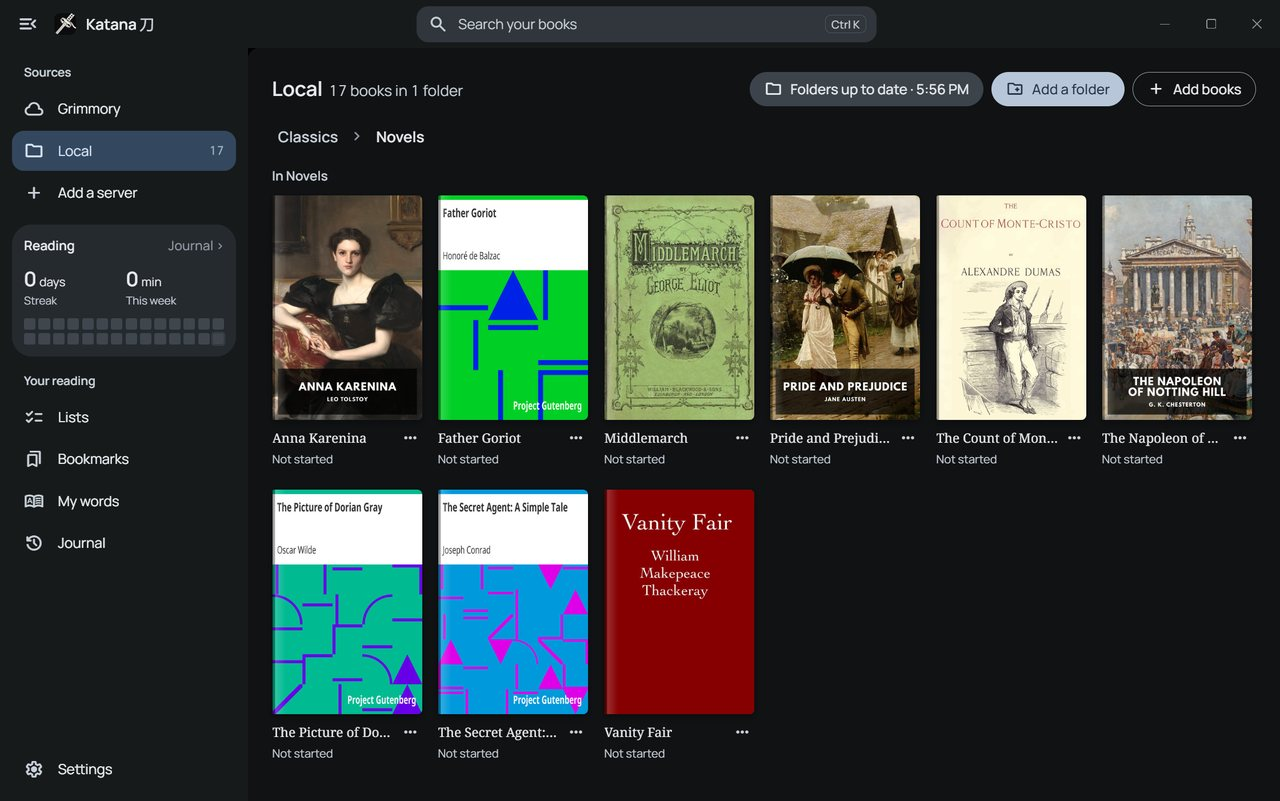
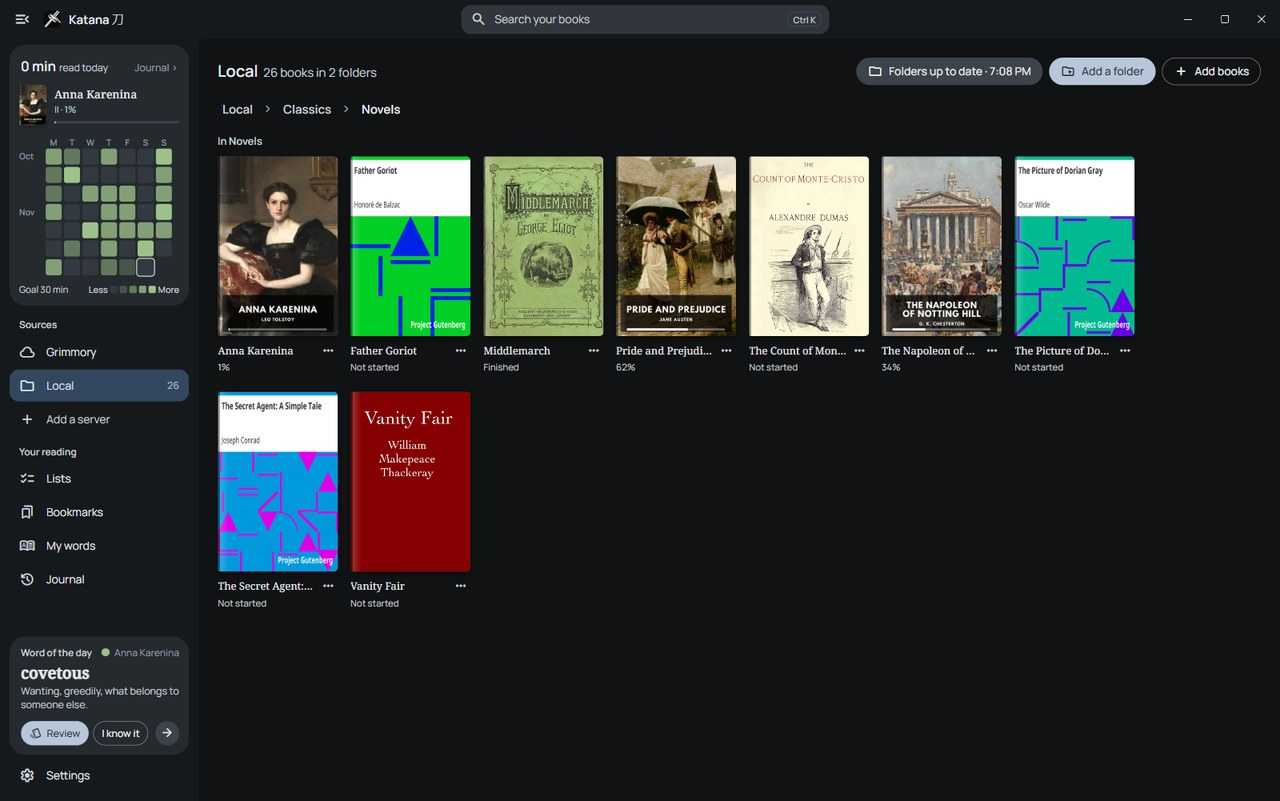
Desk page: new library screenshot with the new sidebar

diff --git a/site/desk/index.html b/site/desk/index.html
@@ -104,7 +104,7 @@
     </p>
 
     <figure class="shot">
-      <img src="library.jpg" alt="Katana Desk's library: a grid of book covers in a dark window" width="1280" height="801">
+      <img src="library.jpg" alt="Katana Desk's library: a grid of book covers in a dark window, with today's reading, the reading days and a word of the day in the sidebar" width="1280" height="801">
     </figure>
 
     <section class="download" aria-label="Download">
